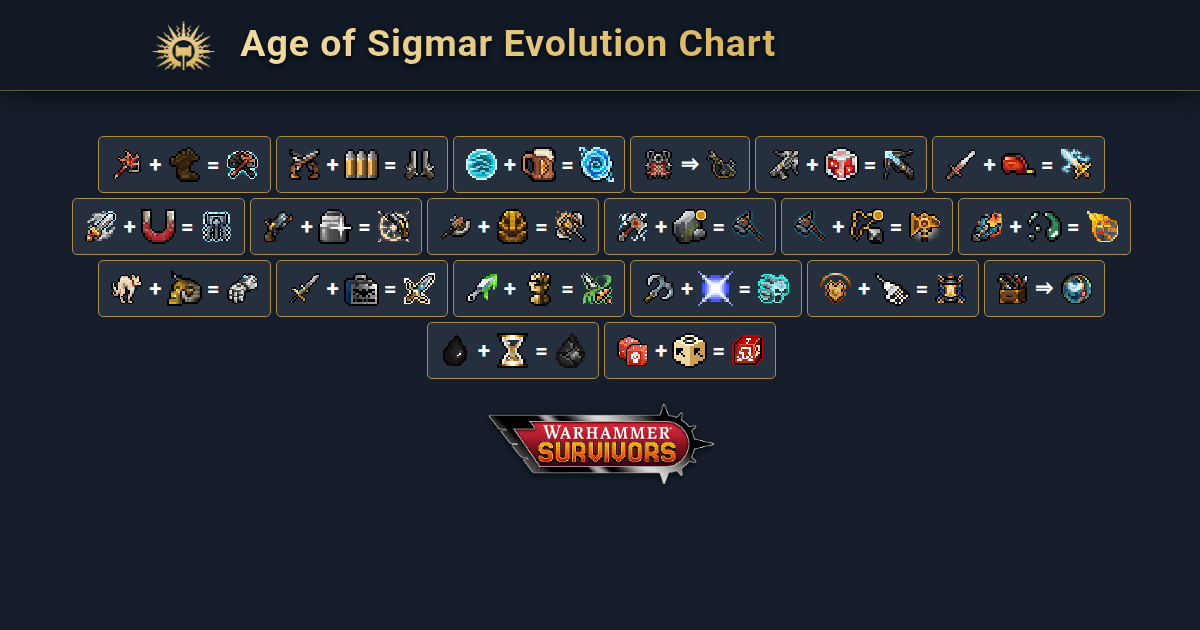
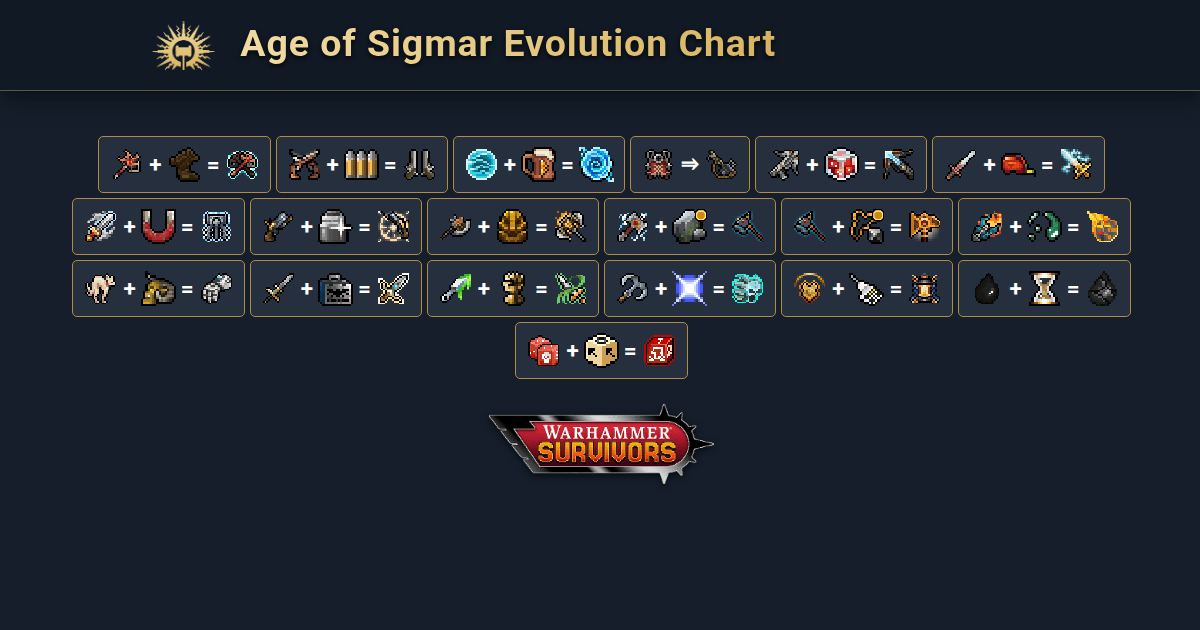
Remove the chest pickers (Archeotech, Exotic Weaponry) from the Warhammer charts
They turn into Reliquary / Artefacts Of Power from evolution chests; they are
not a base weapon and its evolution. The extractor now skips addEvolvedWeapon,
which drops the recipes, their items, icons and legend lines.

Changed region(s): [[0.0617, 0.4222, 0.925, 0.6032]]

diff --git a/styles/warhammer/items.css b/styles/warhammer/items.css
@@ -48,8 +48,6 @@
[8 lines of base64/hex data omitted]
@@ -91,8 +89,6 @@
[8 lines of base64/hex data omitted]

diff --git a/data/warhammer.ts b/data/warhammer.ts
@@ -26,7 +26,7 @@ type TGameEvolution = {
   max: string[];
   result: string;
   /** Set on recipes with no passive: what makes them evolve (see TRIGGER_NOTES). */
-  trigger: "chest" | "special" | null;
+  trigger: "special" | null;
   gift: boolean;
 };
 const gameEvolutions = data.evolutions as TGameEvolution[];
@@ -34,12 +34,9 @@ const gameEvolutions = data.evolutions as TGameEvolution[];
 /**
  * Legend lines for the recipes with no passive (drawn "weapon ⇒ result"), keyed
  * by result. The extractor marks them with a `trigger`; every one needs a note.
+ * `icon`: game id of the item the line starts with. `parts`: text, or `{ item: game id }` for an inline icon.
  */
-const CHEST_NOTE = ["Small odds to evolve on evolution chests, affected by Chance"];
-/** `icon`: game id of the item the line starts with. `parts`: text, or `{ item: game id }` for an inline icon. */
 const TRIGGER_NOTES: Record<string, { icon: string; parts: (string | { item: string })[] }> = {
-  WS_40K_RELIQUARY: { icon: "WS_40K_ARCHEOTECH", parts: CHEST_NOTE },
-  WS_AOS_ARTEFACTS_OF_POWER: { icon: "WS_AOS_EXOTIC_WEAPONRY", parts: CHEST_NOTE },
   // The game keeps this condition in code. The relic's description and the
   // level-60 morph (atma.gg) say how it works.
   WS_AOS_LONG_FUSIL: {

diff --git a/lib/charts.test.ts b/lib/charts.test.ts
@@ -91,12 +91,10 @@ describe("warhammer charts", () => {
         })!
         .elements.map((el) => (typeof el === "string" ? el : el.item.name));
     expect(recipe("aos", "Long-Fusil")).toEqual(["Fusil-Cannon", "⇒", "Long-Fusil"]);
-    expect(recipe("aos", "Artefacts Of Power")).toEqual(["Exotic Weaponry", "⇒", "Artefacts Of Power"]);
-    expect(recipe("w40k", "Reliquary")).toEqual(["Archeotech", "⇒", "Reliquary"]);
 
     expect(Object.keys(chart("aos").passives)).not.toContain("Amberbone");
-    expect(chart("aos").notes!.map((n) => n.name)).toEqual(["Long-Fusil", "Exotic Weaponry"]);
-    expect(chart("w40k").notes!.map((n) => n.name)).toEqual(["Archeotech"]);
+    expect(chart("aos").notes!.map((n) => n.name)).toEqual(["Long-Fusil"]);
+    expect(chart("w40k").notes).toEqual([]);
     expect(chart("vs").notes).toBeUndefined();
   });
 

diff --git a/scripts/engineering/extract-warhammer.py b/scripts/engineering/extract-warhammer.py
@@ -121,9 +121,10 @@ def main(game_dir: str) -> None:
             used.append(gid)
 
     for gid, e in entries.items():
-        # `addEvolvedWeapon`: a weapon picker (Archeotech, Exotic Weaponry) that can
-        # turn into its evolved picker when an evolution chest opens. No passive.
-        result = e.get("evoInto") or e.get("addEvolvedWeapon")
+        # `addEvolvedWeapon` (Archeotech, Exotic Weaponry) is left out: a weapon
+        # picker that can turn into its evolved picker when an evolution chest
+        # opens, not a base weapon and its evolution.
+        result = e.get("evoInto")
         if not result:
             continue
         if result not in entries:
@@ -133,16 +134,12 @@ def main(game_dir: str) -> None:
         # `requiresMax`: the passive must be at max level. Bladed Vortex spells it `Requires`.
         maxed = r.get("requiresMax") or []
         requires = (r.get("requires") or r.get("Requires") or []) + maxed
-        if not requires and not e.get("addEvolvedWeapon"):
+        if not requires:
             requires = e.get("evoSynergy") or []
         # Recipes with no passive have a trigger the chart explains in its legend:
-        # "chest" for the pickers, "special" for a condition kept in game code
-        # (`hasUniqueRequirements`: Long-Fusil, a character morph).
-        trigger = (
-            "chest" if e.get("addEvolvedWeapon")
-            else "special" if r.get("hasUniqueRequirements")
-            else None
-        )
+        # "special" for a condition kept in game code (`hasUniqueRequirements`:
+        # Long-Fusil, a character morph).
+        trigger = "special" if r.get("hasUniqueRequirements") else None
         if not requires and trigger is None:
             sys.exit(f"{gid} -> {result}: no requirement in the data")
         evolutions.append(

diff --git a/context/engineering/guides/warhammer-survivors-update.md b/context/engineering/guides/warhammer-survivors-update.md
@@ -51,7 +51,7 @@ In `WEAPON_DATA`, each item maps to a list of levels; level 1 carries the identi
 - `isEvolution`: the item is an evolved weapon. `isGiftEvo`: gift evolution (base weapon is a character's starting weapon)
 - `requiresMax` on the result: those passives must be at max level (gold badge on the chart). Bladed Vortex spells `requires` as `Requires`
 - `hasUniqueRequirements` on the result: the condition is in game code, not the data. The extractor writes the recipe with no passive and `trigger: "special"` (Long-Fusil: the Fusilier morphs at level 60 once the Amberbone relic is found)
-- `addEvolvedWeapon` (Archeotech, Exotic Weaponry): weapon pickers that can turn into their evolved picker when an evolution chest opens. Written with `trigger: "chest"`
+- `addEvolvedWeapon` (Archeotech, Exotic Weaponry): weapon pickers that can turn into their evolved picker when an evolution chest opens. Not a base weapon and its evolution, so the extractor leaves them out
 - Recipes with a `trigger` draw as `weapon ⇒ result`, and each needs a legend line in `TRIGGER_NOTES` in `data/warhammer.ts` (the build fails without one). Legend icons that are in no recipe (Amberbone, from `ITEM_DATA`) go in `LEGEND_ICONS` in the extractor
 - `hidden` / `placeholder`: not in the level-up pool / unfinished. In the full release `placeholder` is stale (set on shipped items like Executioner Shotgun), so the extractor ignores it. `alwaysHidden` + `isSpecialOnly`: internal sub-weapons (explosions, damage zones), never shown
 - The `*_UnlockAll_StandardEvolution` entries in `ACHIEVEMENT_DATA` list each universe's standard evolution results: a quick cross-check of the printed recipes (gift evolutions are not in it)
